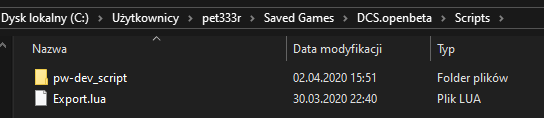
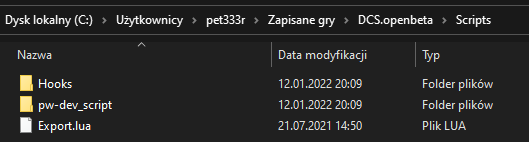
2022.01.13

diff --git a/README.md b/README.md
@@ -2,7 +2,29 @@
 
 Script for exporting data from DCS World
 
-# HOW TO INSTALL SCRIPT > Video
+# Table of context
+- [How to install script](#how-to-install-script--video)
+- [Supported software](#supported-software)
+- [Automatic script installation](#automatic-script-installation)
+- [Script configuration in DCS World option menu](#configure-script-in-dcs-world)
+- [Manual script installation](#manual-installation)
+  * [if you don't have a folder "Scripts"](#if-you-dont-have-a-folder-scripts)
+  * [if you have "Scripts" folder and have installed other scripts](#if-you-have-scripts-folder-and-have-installed-other-scripts)
+  * [Folder scheme](#folder-scheme)
+  * [Edit Config.lua](#edit-configlua)
+- [Automatic script update](#automatic-update-script)
+- [How to find device IP's](#how-to-find-ips-of-pc-and-android-device)
+  * [Android](#android)
+  * [PC](#pc)
+- [Example connection](#example-connection)
+- [Connection](#connection)
+- [Features](#features)
+- [Known issues](#known-issues)
+- [FAQ](#faq)
+- [Compability](#compability)
+- [Stream Deck compatibility](#stream-deck-support)
+
+# HOW TO INSTALL SCRIPT / Video
 Step by step how to install DCS World script  
 ### Click on the link or graphic to play the video on YouTube: [https://youtu.be/saFq3Png-ds](https://youtu.be/saFq3Png-ds)
 
@@ -23,14 +45,14 @@ you'll find it on the "Releases" page
 * DCS UFC [https://play.google.com/store/apps/details?id=com.dcsufc](https://play.google.com/store/apps/details?id=com.dcsufc)
 * DCS AoA Indexer > [https://play.google.com/store/apps/details?id=com.dcsaoaindexer](https://play.google.com/store/apps/details?id=com.dcsaoaindexer)
 * DCS World MFD Exporter [http://pw-developer.com/soft_dcs_mfd.html](http://pw-developer.com/soft_dcs_mfd.html)
-* SimFDR [http://pw-developer.com/soft_simfdr.html](http://pw-developer.com/soft_simfdr.html)
+<!-- * SimFDR [http://pw-developer.com/soft_simfdr.html](http://pw-developer.com/soft_simfdr.html) -->
 
 [![DCS UFC](.gfx/yt_dcsufc.png)](https://youtu.be/qGfzUdCVLwc)  
 [![DCS AoA Indexer](.gfx/yt_aoa.jpg)](https://youtu.be/OU6KO8tjmGo)
 
 # automatic script installation
-- download Script Configurator from this link: [https://github.com/pet333r/pw-dev_script/releases/download/configurator/Script.Configurator.zip](https://github.com/pet333r/pw-dev_script/releases/download/configurator/Script.Configurator.zip)
-- extract to disk somewhere and run  
+- download Script Configurator from this link: [https://github.com/pet333r/pw-dev_script/releases/download/configurator/Script.Configurator-2022.zip](https://github.com/pet333r/pw-dev_script/releases/download/configurator/Script.Configurator-2022.zip)
+- extract somewhere to disk and run  
 - click the "**...**" button to select the path to install the script (the path should look like this:)  
   * `c:\Users\{Your username}\Saved Games\DCS.openbeta\`
   * `c:\Users\{Your username}\Saved Games\DCS\`  
@@ -38,58 +60,92 @@ you'll find it on the "Releases" page
   [![](.gfx/sc1.png)](https://github.com/pet333r/pw-dev_script/blob/master/.gfx/sc1.png) [![](.gfx/sc2.png)](https://github.com/pet333r/pw-dev_script/blob/master/.gfx/sc2.png)
 - after selecting the correct path, click the "**Download & install script**" button, the zip file with the script will be downloaded and installed in the appropriate place, additionally an entry will be automatically added to the main Export.lua file
 - you can check if the script entry is added in the file Export.lua (button "**Open main Export.lua**")
-- then enter the correct IP addresses of your Android devices ("**Edit Config.lua**" button) example you will find below in the [example connection](#example-connection)
+- then set correct IP addresses of your Android devices in the Config.lua file (you can do this in two ways):
+  - manually editing the file ("**Edit Config.lua**" button) example you will find below in the [example connection](#example-connection)
+  - setting everything up in DCS World > [configure script in DCS World](#configure-script-in-dcs-world)
 - in the future, you can check the script update by clicking the "**Check for update**" button
 
 - the last thing is to enter your computer's IP address in the Android application settings (**DCS UFC** / **DCS AoA Indexer**)
 
+## configure script in DCS World
+After installing the script, enter the IP addresses of your Android devices in the `Config.lua` file, you can do this in `DCS World > Options > Special > pw-dev` which is easier than edit this file manually
+
+![](.gfx/options1.png)  
+
+# files scheme
+
+Scheme of folders with installed script
+```
+DCS or DCS.openbeta
+├── Logs                            KML and CSV files are saved here
+├── Mods
+│   └── Services
+│       └── pw-dev
+└── Scripts
+    ├── Hooks
+    │   └── pw_dcs_util-hook.lua
+    ├── pw-dev_script
+    │   ├── lib\
+    │   ├── Modules\                folder with files for individual modules in DCS World
+    │   ├── Utilities\              folder with additional software
+    │   ├── add_firewall_rules      file adds rules to Windows firewall (if necessary)
+    │   ├── Config.lua              main script configuration file
+    │   ├── ExportInit.lua
+    │   ├── my_local_PC_IP          checking the PC IP address
+    │   ├── update_pw-dev_script    file for automatic script update
+    │   └── version                 installed script version
+    └── Export.lua                  main Export.lua file with entries for additional scripts
+```
+
 # manual installation
 
-download latest script version in ZIP file from this link: [https://github.com/pet333r/pw-dev_script/releases/download/script/Scripts.zip](https://github.com/pet333r/pw-dev_script/releases/download/script/Scripts.zip), save it wherevere You want on disk and unpack
+download latest script version in ZIP file from this link: [https://github.com/pet333r/pw-dev_script/releases/download/script/Scripts-Extended.zip](https://github.com/pet333r/pw-dev_script/releases/download/script/Scripts-Extended.zip), save it wherevere You want on disk and unpack
 
 next go to and open folder: (depending on the DCS World version you have installed..)
-* `c:\Users\{Your username}\Saved Games\DCS.openbeta\Scripts\`
-* `c:\Users\{Your username}\Saved Games\DCS\Scripts\`  
+* `c:\Users\{Your username}\Saved Games\DCS.openbeta\`
+* `c:\Users\{Your username}\Saved Games\DCS\`  
 or if you have both, choose one or both DCS versions to install script;-)
 
-## if you don't have a folder "Scripts"
+## *if you don't have a folder 'Scripts'*
 
-if You don't have folder `Scripts`, simply copy folder `Scripts` from unpacked ZIP file to one of the locations and go to [Edit Config.lua](##edit-Config.lua)
+if You don't have folder `Scripts`, simply copy all files from unpacked ZIP file to one of the locations and go to [Edit Config.lua](#edit-configlua)
 
-## if you have "Scripts" folder and have installed other scripts
+## *if you have 'Scripts' folder and have installed other scripts*
 
-- copy `pw-dev_script` folder from unpacked ZIP file into `Scripts` folder 
+- copy the `Mods` folder to the above-mentioned folder
+- copy `pw-dev_script` and `Hooks` folder from unpacked ZIP file into `Scripts` folder 
 - open main `Export.lua` file in `Scripts` folder (recommend Notepad++ for this) and add this code to the beginning of the file (above the entries for other scripts, example here: [compability](#compability)) 
 
 ```
 pcall(function() local pw=require('lfs');dofile(pw.writedir()..[[Scripts\pw-dev_script\ExportInit.lua]]); end,nil);
 ```
 - save & close
-- now go to [Edit Config.lua](##edit-Config.lua)
+- now go to [Edit Config.lua](#edit-configlua)
 
-## files scheme
+## *folder scheme*
 
-this is how the file scheme with folders should look
+<!-- this is how the file scheme with folders should look
 
 ```
 \Scripts
   - \pw-dev_script
     - \lib
     - \Modules
+    - \Utilities
     -  Config.lua (edit IP / port connected devices)
     -  ExportInit.lua
 
   - Export.lua add:  pcall(function() local pw=require('lfs');dofile(pw.writedir()..[[Scripts\pw-dev_script\ExportInit.lua]]); end,nil);
-  ```
+  ``` -->
 
-should look like this (depending on the DCS version)  
+this is what the scheme of the folder with the script installed should look like (depending on the DCS version)
 folder `Scripts`  
 ![](.gfx/folders1.png)  
 folder `pw-dev_script` inside `Scripts`  
 ![](.gfx/folders2.png)
 
 
-## edit Config.lua 
+## *edit Config.lua*
 in folder `pw-dev_script` open `Config.lua` for edit, there are several "groups" in the file: 
 * device 1
 * device 2
@@ -116,22 +172,22 @@ example you will find below in the [example connection](#example-connection)
 
 # automatic update script
 
-in the future, just run the file `update_pw-dev_script.bat` to download the latest version of the script (the `Config.lua` file will be kept, the others will be replaced with the latest version)  
-just run it from time to time or add a shortcut in the Windows Startup folder to have the script updated during system startup
+in the future, just run the file `update_pw-dev_script.bat` to download the latest version of the script (the `Config.lua` file with your IP's will be kept, the others will be replaced with the latest version)  
+
+In each program update, a notification about new addons is displayed and additionally, information about the minimum script version for proper operation is displayed. If you see that a newer version of the script is required than the one you currently have, just run the automatic script update and wait for it to download the latest versions of files.
 
 
 # how to find IP's of PC and Android device
 
 ## Android
-To find Android device IP: go to `Settings > WiFi` > check the properties of your network   
+To find Android device IP: on device go to `Settings > WiFi` > check the properties of your network (it may be different on different Android devices / versions / system overlays)   
 
 ## PC
-to find the IP address of the computer with DCS World installed: [https://www.digitalcitizen.life/find-ip-address-windows](https://www.digitalcitizen.life/find-ip-address-windows)  
+to find the IP address of your PC with DCS World installed: [https://www.digitalcitizen.life/find-ip-address-windows](https://www.digitalcitizen.life/find-ip-address-windows)  
 or run `my_local_PC_IP.cmd` file in script folder, a console window will open  
 
 example:  
 [![](.gfx/ipconfig_small.png)](.gfx/ipconfig.png)  
-
 
 
 # example connection
@@ -158,10 +214,11 @@ In one of the "groups" in the Config.lua file which is located in the folder wit
 # features
 ## additional script functions:
 
-***`1`*** saving telemetry data to KML and CSV files, files are saved in one of the folders (depending on your DCS World version)  
+***`1`*** saving telemetry data to **KML** and **CSV** files, files are saved in one of the folders (depending on your DCS World version)  
   * `c:\Users\{Your username}\Saved Games\DCS.openbeta\Logs\`
   * `c:\Users\{Your username}\Saved Games\DCS\Logs\`  
-  - KML file (the file can be opened in any application that supports that file format):
+
+    `1.1` **KML file** (the file can be opened in any application that supports that file format):
   ![](.gfx/ge1.png)
 # known issues
 
@@ -169,7 +226,7 @@ In one of the "groups" in the Config.lua file which is located in the folder wit
   - You probably set wrong Your Android device IP in `Config.lua` file
 
 ***`2`*** If Your device stopped receiving data
-  - Your router has likely assigned a different IP address to your Android device. Check the device's IP address and enter a new one in the Config.lua file.
+  - Your router has likely assigned a different IP address to your Android device. Check the device's IP address and enter a new one in the `Config.lua` file.
 
 ***`3`*** If you receive data from DCS but no button works  
   - check if you have the correct PC address given in the DCS UFC settings  
@@ -177,7 +234,7 @@ In one of the "groups" in the Config.lua file which is located in the folder wit
   [https://www.windowscentral.com/how-open-port-windows-firewall](https://www.windowscentral.com/how-open-port-windows-firewall)
 
 # faq
-***`1`*** What version of the system do Android applications work with? [ DCS UFC / DCS AoA Indexer]
+***`1`*** What version of the system do Android applications work with? [ `DCS UFC` / `DCS AoA Indexer`]
   - applications run on systems version 4.1 and above [ about 99% of devices available on the market ]
 
 ***`2`*** do the applications and script work in multiplayer?
@@ -186,9 +243,12 @@ In one of the "groups" in the Config.lua file which is located in the folder wit
 ***`3`*** does integrity check pass?
   - YES (more precisely, it doesn't even have any effect on it :-) )
 
+***`4`*** are there any limitations to the DCS World version with which the apps work?
+  - NONE, the applications work with any version of DCS World, no matter if it is a standalone or openbeta version, and whether it was installed directly from the producent website or you use the Steam version
+
 # compability
 Script may not work with some other scripts if they use similar solutions to connect to external applications. This is a known problem in DCS.  
-If you noticed that something is not working and you are also using other scripts, put other scripts in the comment (add -- at the beginning of the entry) to check which ones do not want to work with each other.  
+If you noticed that something is not working and you are also using other scripts, put other scripts in the comment (add `--` at the beginning of the entry) to check which ones do not want to work with each other.  
 
 tested and works with :
  * DCS-BIOS
@@ -208,8 +268,25 @@ pcall(function() local dcsSr=require('lfs');dofile(dcsSr.writedir()..[[Mods\Tech
 local Tacviewlfs=require('lfs');dofile(Tacviewlfs.writedir()..'Scripts/TacviewGameExport.lua');
  ```
 
+
+# Stream Deck support
+
+For the script to work properly with StreamDeck, a plugin for the Elgato StreamDeck software must be installed, more information can be found here:
+[https://github.com/charlestytler/streamdeck-dcs-interface](https://github.com/charlestytler/streamdeck-dcs-interface)
+
+* To install the DCS Interface Streamdeck plugin, you will need to download and run the installer `com.ctytler.dcs.streamDeckPlugin` from [This page](https://github.com/charlestytler/streamdeck-dcs-interface/releases)
+
+## plugin config
+- IP Address: `127.0.0.1`
+- Listener Port: `1725` (default)
+- Send Port: `25070` (the same as in the `Config.lua` file > `ExportScript.Config.ListenerPort`)
+![](.gfx/streamdeck1.png)
+
+:red_circle: <span style="color:#FF4422">IMPORTANT</span>
+The script does not send all the data from the modules available for DCS World. Therefore, not every available 'option' will be transferred between DCS World and StreamDeck (if you use any ready-made configurations found on the Internet). This is because the `DCS UFC` application does not need all this data and there is no need to send it additionally (it only increases the network traffic)  
+
 # license
 
 The script is available free of charge under the LGPLv3 license.  
-Part of the script was based on `DCS-ExportScripts` 
+Part of the script was based on DCS-ExportScripts 
 Additional functionality was added and modified to increase performance and separate sending of individual data to reduce the load on the application.
